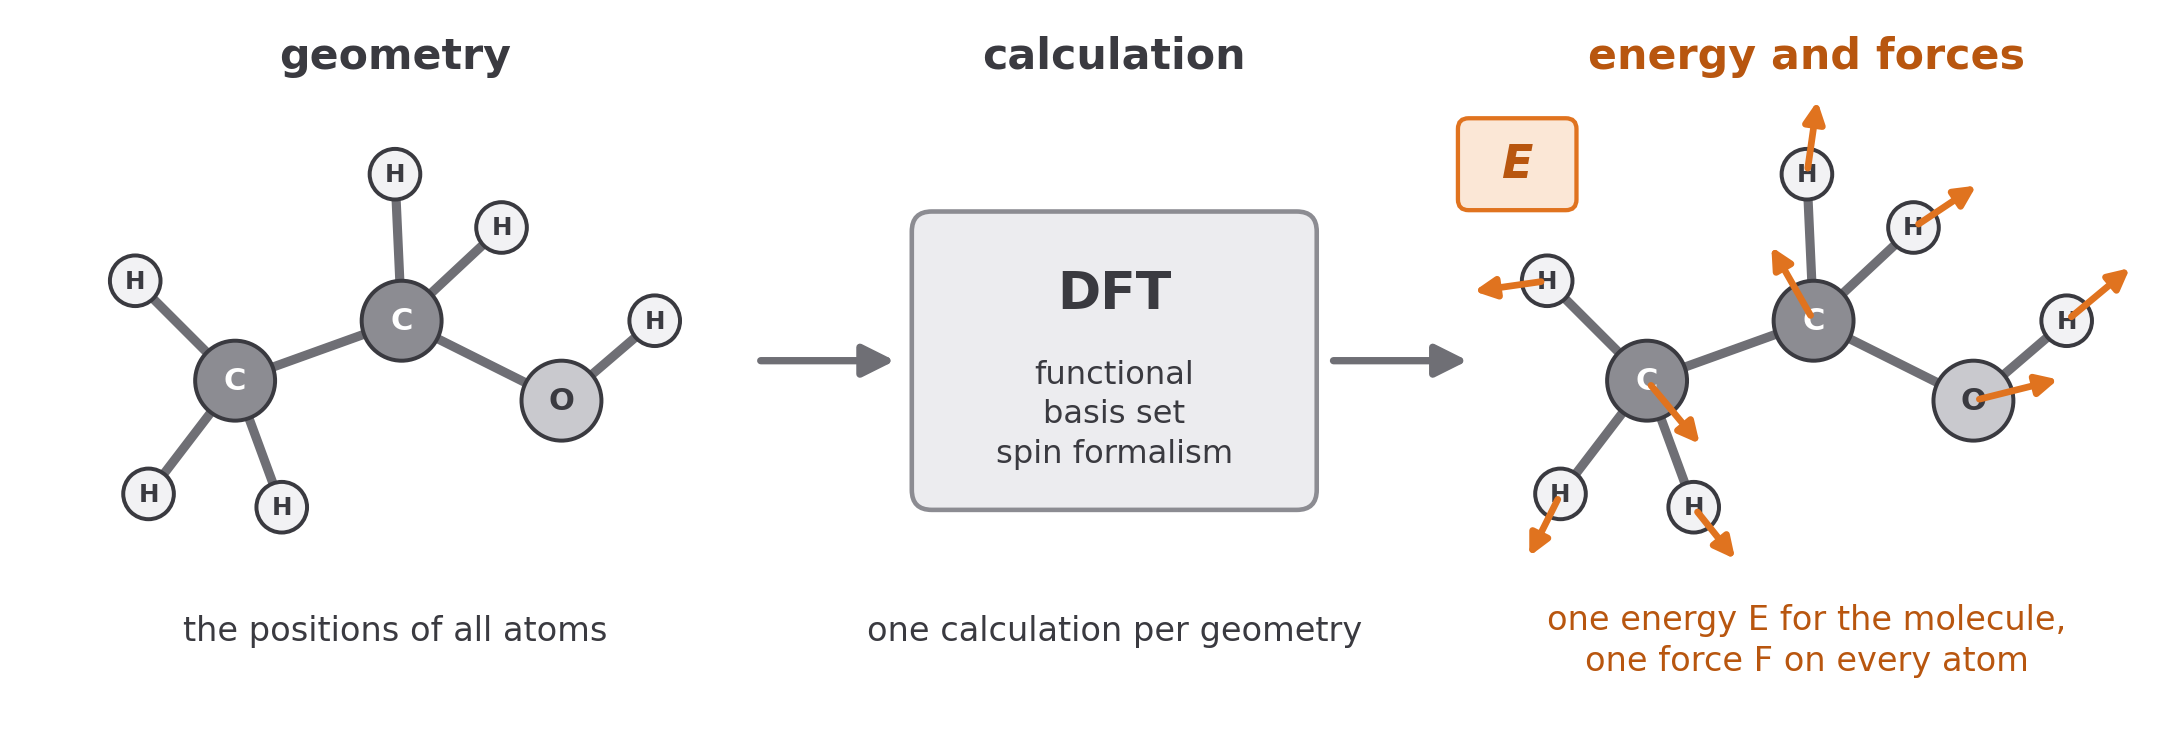
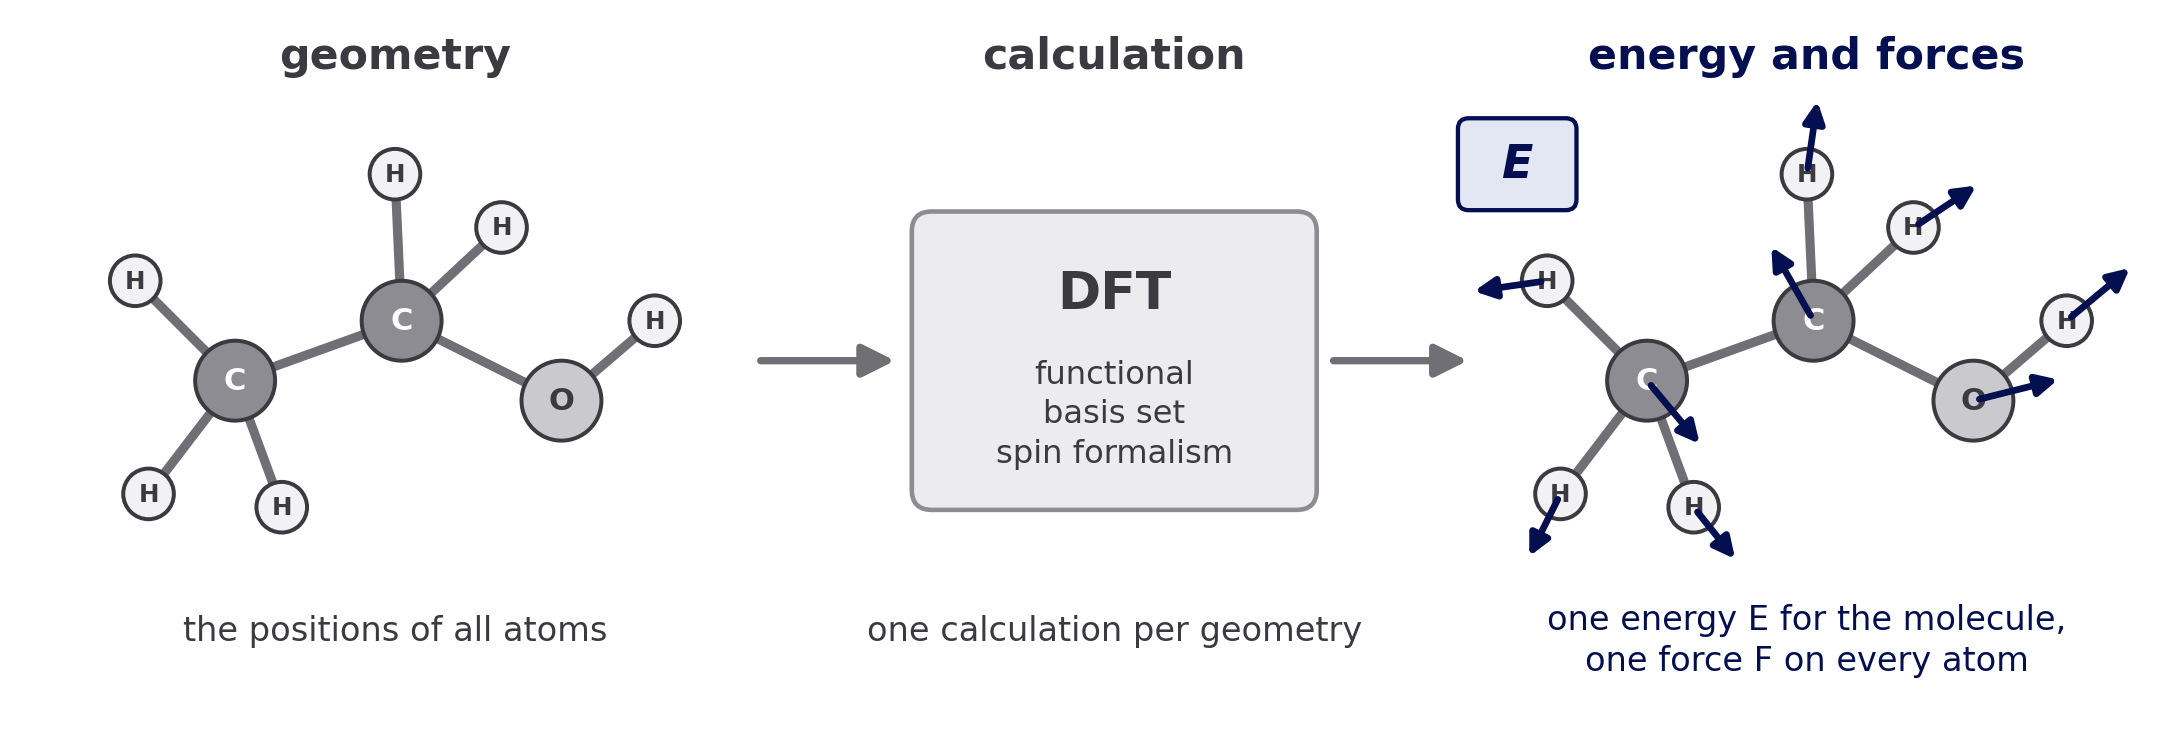
Defence talk: geometry-to-labels picture in navy, orange stays reserved for higher fidelity

diff --git a/docs/defence/draw_dataset_pics.py b/docs/defence/draw_dataset_pics.py
@@ -1062,7 +1062,7 @@ def molecule(ax, ox, oy, with_forces=False):
         ax.text(ox + x, oy + y, el, ha="center", va="center", fontsize=10 if el != "H" else 8, color="white" if el == "C" else DARK, fontweight="bold", zorder=3)
         if with_forces:
             fx, fy = forces[k]
-            ax.add_patch(FancyArrowPatch((ox + x, oy + y), (ox + x + 1.7 * fx, oy + y + 1.7 * fy), arrowstyle="-|>", mutation_scale=14, lw=2.2, color=NEW, zorder=4))
+            ax.add_patch(FancyArrowPatch((ox + x, oy + y), (ox + x + 1.7 * fx, oy + y + 1.7 * fy), arrowstyle="-|>", mutation_scale=14, lw=2.2, color="#030f4f", zorder=4))
 
 
 fig, ax = plt.subplots(figsize=(12.5, 4.2))
@@ -1081,10 +1081,10 @@ ax.text(6.6, -1.75, "one calculation per geometry", ha="center", fontsize=11, co
 ax.add_patch(FancyArrowPatch((8.2, 0.35), (9.3, 0.35), arrowstyle="-|>", mutation_scale=22, lw=2.4, color="#6f6f75"))
 # out: energy and forces
 molecule(ax, 10.6, 0.2, with_forces=True)
-ax.text(11.8, 2.55, "energy and forces", ha="center", fontsize=14, fontweight="bold", color="#b8560f")
-ax.text(11.8, -1.75, "one energy E for the molecule," + chr(10) + "one force F on every atom", ha="center", va="center", fontsize=11, color="#b8560f", linespacing=1.3)
-ax.add_patch(FancyBboxPatch((9.2, 1.5), 0.85, 0.65, boxstyle="round,pad=0.02,rounding_size=0.08", fc="#fbe7d6", ec=NEW, lw=1.4))
-ax.text(9.625, 1.825, "E", ha="center", va="center", fontsize=15, fontweight="bold", color="#b8560f", style="italic")
+ax.text(11.8, 2.55, "energy and forces", ha="center", fontsize=14, fontweight="bold", color="#030f4f")
+ax.text(11.8, -1.75, "one energy E for the molecule," + chr(10) + "one force F on every atom", ha="center", va="center", fontsize=11, color="#030f4f", linespacing=1.3)
+ax.add_patch(FancyBboxPatch((9.2, 1.5), 0.85, 0.65, boxstyle="round,pad=0.02,rounding_size=0.08", fc="#e3e6f3", ec="#030f4f", lw=1.4))
+ax.text(9.625, 1.825, "E", ha="center", va="center", fontsize=15, fontweight="bold", color="#030f4f", style="italic")
 fig.savefig(OUT + "pic_geometry_to_labels.png", dpi=220, bbox_inches="tight", transparent=True)
 plt.close(fig)
 print("written", OUT + "pic_geometry_to_labels.png")
